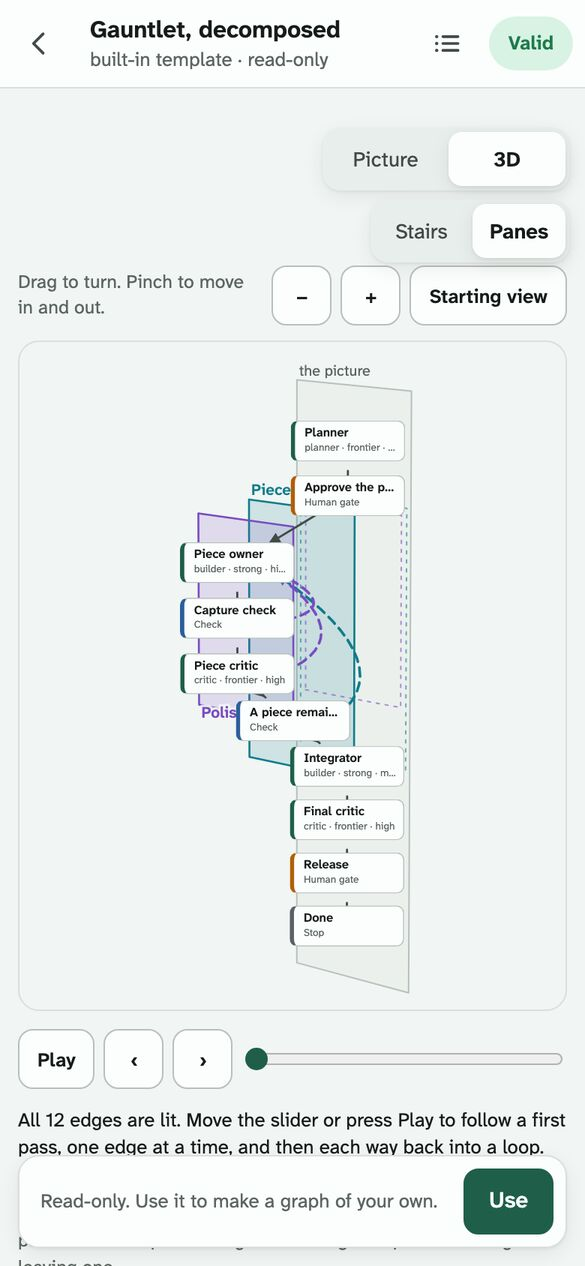
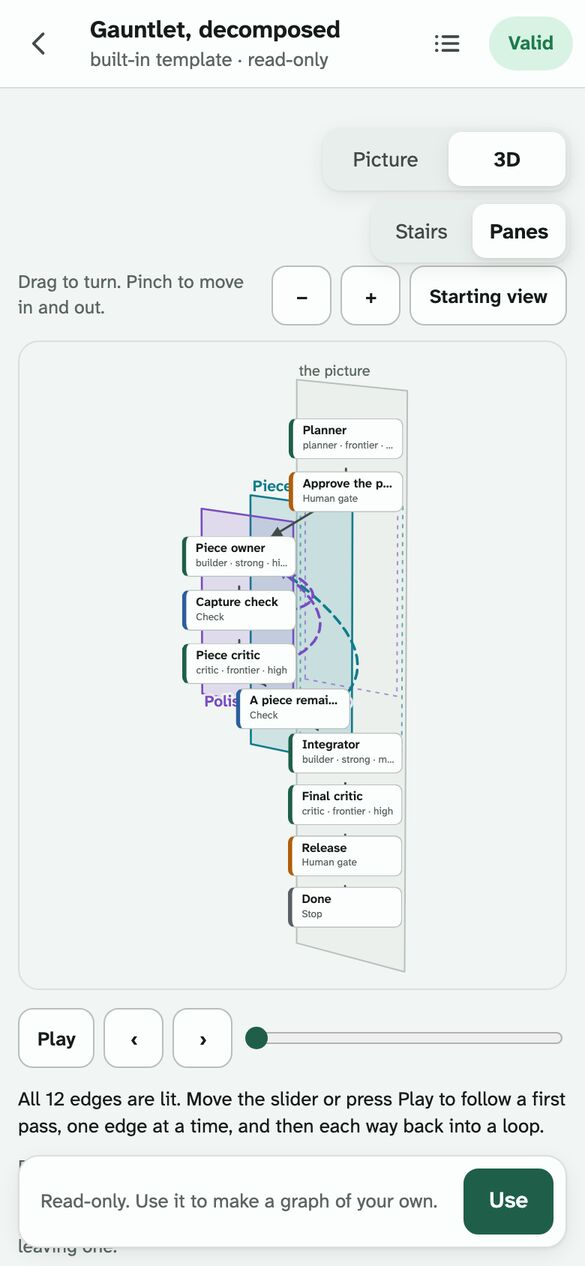
web: the taller frame after a second read: capped by what scrolls it, worked out again when the room changes, the scroll position kept, cards placed as they are drawn, a row of four clear, the last words clear of the page's foot

Changed region(s): [[0.3077, 0.3081, 0.7077, 0.7701], [0.0308, 0.8009, 0.9846, 0.9242], [0.0308, 0.9858, 0.1846, 1.0]]

diff --git a/apps/web/src/ui/canvas/stage/draw.ts b/apps/web/src/ui/canvas/stage/draw.ts
@@ -38,14 +38,19 @@ const clamp = (v: number, a: number, b: number): number => Math.max(a, Math.min(
 /** The app's own colors, by the short names the views use. A stage is Paper in every theme (docs/themes.md). */
 const TOKENS: Record<string, string> = { ink: "--ink", "ink-2": "--ink-2", "ink-3": "--ink-3", line: "--line", "line-strong": "--line-strong", card: "--surface", ground: "--bg", floor: "--surface-2", accent: "--accent", "accent-soft": "--accent-soft", "loop-0": "--loop-0", "loop-1": "--loop-1", "loop-2": "--loop-2", "loop-3": "--loop-3", "k-agent": "--kind-agent", "k-check": "--kind-check", "k-gate": "--kind-human-gate", "k-stop": "--kind-stop", ok: "--ok", bad: "--warning", brake: "--error" };
 
-/** How tall a frame may be made, of the window's height: a drag on the frame turns the view, so the page is scrolled
- *  from outside it, and past this less than a row of controls is left on a phone's screen to scroll it from. */
+/** How tall a frame may be made, of the height of what scrolls it (the stage over the canvas, which a panel or a
+ *  sheet can make short): a drag on the frame turns the view, so the page is scrolled from outside the frame, and a
+ *  fifth of that height is always outside it to scroll from. */
 export const TALLEST = 0.8;
+/** The smallest a scene is made, for its cards to be clear of each other, in a frame that has room for it larger:
+ *  under this the frame is made taller instead. */
+const SMALLEST = 0.85;
 
 /**
- * `roomy`: the frame is made as tall as the scene needs for no two of its cards to lie over each other, up to
- * `TALLEST` of the window, and the page scrolls. The height is asked of the frame's parent, whose row it is, as
- * `--s3-tall`.
+ * `roomy`: where the scene's cards would lie over each other in the room the frame has, the scene is made a little
+ * smaller if that clears them, and otherwise the frame is made as tall as they need, up to `TALLEST` of what scrolls
+ * it, and the page scrolls. The height is asked of the frame's parent, whose row it is, as `--s3-tall`; what
+ * scrolls is that parent's parent.
  */
 export function makeStage(frame: HTMLElement, canvas: HTMLCanvasElement, cards: HTMLElement, start: Look, roomy = false): Stage {
   const g = canvas.getContext("2d")!;
@@ -60,8 +65,13 @@ export function makeStage(frame: HTMLElement, canvas: HTMLCanvasElement, cards: 
   let ratio = 0;
   let asked = 0;
   let moved = false;
-  // What the frame's height was last worked out for: its width, and where the cards are.
+  // What the frame's height was last worked out for (its width, the room it is scrolled in, where the cards are),
+  // the largest the scene is drawn for that, a working out put off to the next frame, and whether this is the
+  // observer's own call: a size changed there is reported as a loop.
   let tallFor = "";
+  let most = Infinity;
+  let later = 0;
+  let observing = false;
   // What travels between cards is seen over them: an element, as they are, where the canvas is under them all.
   const token = frame.appendChild(document.createElement("i"));
   token.className = "s3-token";
@@ -124,44 +134,71 @@ export function makeStage(frame: HTMLElement, canvas: HTMLCanvasElement, cards: 
       }
       return lo;
     };
-    fitted = largest(w, h);
     const host = frame.parentElement;
-    const placed = prims.flatMap((p) => (p.t === "card" && cardOf(p.id) ? [[p, cardOf(p.id)!, turned(p.at)] as const] : []));
-    const now = `${w}|${placed.map(([p, , t]) => `${p.id}:${t.map(Math.round).join(",")}`).join("|")}`;
-    if (roomy && host && now !== tallFor) {
-      tallFor = now;
-      // At a size, whether no two cards lie over each other: two pixels clear, so that their edges are not one line.
-      const clear = (f: number): boolean => {
-        const boxes = placed.map(([p, el, t]) => boxOf(p, el, t[0] * near(t[2], f), -t[1] * near(t[2], f), near(t[2], f)));
-        return boxes.every((a, i) => boxes.every((b, j) => j <= i || a[0] >= b[0] + b[2] + 2 || b[0] >= a[0] + a[2] + 2 || a[1] >= b[1] + b[3] + 2 || b[1] >= a[1] + a[3] + 2));
-      };
-      // The height the frame has when it is asked for nothing.
-      const measure = (): void => {
-        h = Math.round(canvas.getBoundingClientRect().height);
-        canvas.height = h * ratio;
-        fitted = largest(w, h);
-      };
-      host.style.removeProperty("--s3-tall");
-      measure();
-      if (h && !clear(fitted)) {
-        // The smallest size at which they are clear, of those the frame's width has room for; if none is, the largest.
-        const widest = largest(w, 1e6);
-        let f = widest;
-        for (let n = 1; n <= 24; n += 1) {
-          const at = fitted + ((widest - fitted) * n) / 24;
-          if (clear(at)) {
-            f = at;
-            break;
+    const scroller = host?.parentElement;
+    if (roomy && host && scroller) {
+      const placed = prims.flatMap((p) => (p.t === "card" && cardOf(p.id) ? [[p, cardOf(p.id)!, turned(p.at)] as const] : []));
+      const now = `${w}|${scroller.clientHeight}|${placed.map(([p, , t]) => `${p.id}:${t.map(Math.round).join(",")}`).join("|")}`;
+      // Put off when this is the observer's call: the working out changes the size the observer watches.
+      if (now !== tallFor && observing) later ||= requestAnimationFrame(() => ((later = 0), fit(), draw()));
+      else if (now !== tallFor) {
+        tallFor = now;
+        most = Infinity;
+        // At a size, whether no two cards lie over each other, placed as they are drawn: two pixels clear, so that
+        // their edges are not one line.
+        const clear = (f: number): boolean => {
+          const [x0, x1, y0, y1] = box(f);
+          const [sx, sy] = [(x0 + x1) / 2 / f, -(y0 + y1) / 2 / f];
+          const boxes = placed.map(([p, el, t]) => boxOf(p, el, (t[0] - sx) * near(t[2], f), -(t[1] - sy) * near(t[2], f), near(t[2], f)));
+          return boxes.every((a, i) => boxes.every((b, j) => j <= i || a[0] >= b[0] + b[2] + 2 || b[0] >= a[0] + a[2] + 2 || a[1] >= b[1] + b[3] + 2 || b[1] >= a[1] + a[3] + 2));
+        };
+        // Between a size that is not clear and one that is, the one nearest the first that is clear.
+        const edge = (not: number, yes: number): number => {
+          for (let n = 0; n < 10; n += 1) clear((not + yes) / 2) ? (yes = (not + yes) / 2) : (not = (not + yes) / 2);
+          return yes;
+        };
+        const measure = (): number => {
+          h = Math.round(canvas.getBoundingClientRect().height);
+          canvas.height = h * ratio;
+          return largest(w, h);
+        };
+        // The height the frame has when it is asked for nothing. Taking the request away can make the page shorter
+        // than it is scrolled: where it was scrolled to is kept, and given back.
+        const scrolled = scroller.scrollTop;
+        host.style.removeProperty("--s3-tall");
+        const fits = measure();
+        if (h && !clear(fits)) {
+          // A little smaller in the same frame, if that clears them.
+          let found = 0;
+          for (let n = 1; n <= 16 && !found && fits > SMALLEST; n += 1) {
+            const at = fits - ((fits - SMALLEST) * n) / 16;
+            if (clear(at)) found = edge(at, fits - ((fits - SMALLEST) * (n - 1)) / 16);
+          }
+          if (found) most = found;
+          else {
+            // Or larger, in a taller frame: the smallest size at which they are clear, of those the frame's width
+            // has room for; if none is, the largest. A frame that would pass the cap is at the cap.
+            const widest = largest(w, 1e6);
+            let f = widest;
+            for (let n = 1; n <= 24; n += 1) {
+              const at = fits + ((widest - fits) * n) / 24;
+              if (clear(at)) {
+                f = edge(fits + ((widest - fits) * (n - 1)) / 24, at);
+                break;
+              }
+            }
+            const [, , y0, y1] = box(f);
+            const tall = Math.min(Math.ceil(y1 - y0) + 18, Math.round(scroller.clientHeight * TALLEST));
+            if (tall > h) {
+              host.style.setProperty("--s3-tall", `${tall}px`);
+              measure();
+            }
           }
         }
-        const [, , y0, y1] = box(f);
-        const tall = Math.min(Math.ceil(y1 - y0) + 18, Math.round(innerHeight * TALLEST));
-        if (tall > h) {
-          host.style.setProperty("--s3-tall", `${tall}px`);
-          measure();
-        }
+        scroller.scrollTop = scrolled;
       }
     }
+    fitted = Math.min(largest(w, h), most);
     const [x0, x1, y0, y1] = box(fitted);
     shift = [(x0 + x1) / 2 / fitted, -(y0 + y1) / 2 / fitted];
     Object.assign(view, was);
@@ -375,15 +412,24 @@ export function makeStage(frame: HTMLElement, canvas: HTMLCanvasElement, cards: 
   });
   if (typeof ResizeObserver === "function") {
     // Drawn at once: a canvas given a new size is blank, and the cards would stand over nothing for a frame.
-    const sized = new ResizeObserver(() => (size(), draw()));
+    const sized = new ResizeObserver(() => {
+      observing = true;
+      size();
+      // The room the frame is scrolled in may have changed and the frame not (a panel opened beside a frame that
+      // is held to a height): the height is worked out again.
+      if (roomy) fit();
+      observing = false;
+      draw();
+    });
     sized.observe(canvas);
+    if (roomy && frame.parentElement?.parentElement) sized.observe(frame.parentElement.parentElement);
     off.push(() => sized.disconnect());
   }
   const scheme = matchMedia("(prefers-color-scheme: dark)");
   scheme.addEventListener("change", ask);
   const themed = new MutationObserver(ask);
   themed.observe(document.documentElement, { attributes: true, attributeFilter: ["data-theme"] });
-  off.push(() => scheme.removeEventListener("change", ask), () => themed.disconnect(), () => cancelAnimationFrame(asked), () => token.remove());
+  off.push(() => scheme.removeEventListener("change", ask), () => themed.disconnect(), () => cancelAnimationFrame(asked), () => cancelAnimationFrame(later), () => token.remove());
 
   const stage: Stage = {
     lit: null,

diff --git a/apps/web/e2e/graph-stage.spec.ts b/apps/web/e2e/graph-stage.spec.ts
@@ -618,7 +618,7 @@ const overlaps = (page: Page) =>
     return boxes.flatMap(([a, p], i) => boxes.slice(i + 1).flatMap(([b, q]) => (p.left < q.right && q.left < p.right && p.top < q.bottom && q.top < p.bottom ? [`${a} over ${b}`] : [])));
   });
 
-test("on a phone no card of any built-in template lies over another in Panes at rest: the frame is as tall as its cards need, to four fifths of the window, and the page scrolls", async ({ page }) => {
+test("on a phone no card of any built-in template lies over another in Panes at rest: the frame is as tall as its cards need, and the page scrolls to the last of the words", async ({ page }) => {
   test.setTimeout(180_000);
   await page.setViewportSize({ width: 390, height: 844 });
   await page.addInitScript(() => sessionStorage.getItem("groophSpace") ?? sessionStorage.setItem("groophSpace", "panes"));
@@ -638,8 +638,9 @@ test("on a phone no card of any built-in template lies over another in Panes at 
     const hits = await overlaps(page);
     if (hits.length) found[id] = hits;
     const frame = (await page.locator(".s3-frame").boundingBox())!;
-    // Never taller than four fifths of the window: the page is scrolled from outside the frame.
-    expect(frame.height, id).toBeLessThanOrEqual(Math.round(844 * 0.8) + 1);
+    // Never taller than four fifths of what scrolls it: the page is scrolled from outside the frame.
+    const room = await page.locator(".graph-space").evaluate((el) => el.clientHeight);
+    expect(frame.height, id).toBeLessThanOrEqual(Math.round(room * 0.8) + 1);
     const asked = await page.locator(".s3").evaluate((el) => (el as HTMLElement).style.getPropertyValue("--s3-tall"));
     if (asked) taller.push(id);
     // Every card is whole in its frame, and what is under the frame can be scrolled to.
@@ -649,8 +650,10 @@ test("on a phone no card of any built-in template lies over another in Panes at 
       expect(box.top, id).toBeGreaterThanOrEqual(frame.y - 1);
       expect(box.bottom, id).toBeLessThanOrEqual(frame.y + frame.height + 1);
     }
-    await page.locator(".s3-note").scrollIntoViewIfNeeded();
-    await expect(page.locator(".s3-note")).toBeInViewport();
+    // Scrolled to its end, the last of the words is clear of the bar at the page's foot, not under it.
+    await page.locator(".graph-space").evaluate((el) => el.scrollTo(0, el.scrollHeight));
+    const [last, bar] = [(await page.locator(".s3-note").boundingBox())!, (await page.locator(".viewer-bar").boundingBox())!];
+    expect(last.y + last.height, id).toBeLessThanOrEqual(bar.y);
   }
   // Said by name, so that a template that still has cards over each other at the cap is known, not hidden.
   expect(found).toEqual({});
@@ -697,4 +700,94 @@ test("a frame made taller for its cards does not break the move: the picture bec
   expect(made.map((m) => m.ended)).toEqual([true, true]);
   for (const m of made) expect(m.pairs).toBeGreaterThan(0);
   expect([await namedStill(page), (await slowest(page)) < 2500]).toEqual([0, true]);
+});
+
+test("the frame is never taller than four fifths of what scrolls it: with the details sheet open on a phone it stops there, the page can still be scrolled from outside it, and the templates whose cards still touch are these", async ({ page }) => {
+  test.setTimeout(180_000);
+  await page.setViewportSize({ width: 390, height: 844 });
+  await page.addInitScript(() => sessionStorage.getItem("groophSpace") ?? sessionStorage.setItem("groophSpace", "panes"));
+  const ids = readdirSync(join(repoRoot, "patterns")).filter((f) => f.endsWith(".grooph.json")).map((f) => f.replace(".grooph.json", ""));
+  const touching: string[] = [];
+  const capped: string[] = [];
+  for (const id of ids) {
+    await page.goto("about:blank");
+    await page.goto(`./#/templates/built-in/${id}`);
+    await canvasIsQuiet(page);
+    // The page opens with its details sheet over the lower half, and here it is left open.
+    await expect(page.getByRole("button", { name: "Close panel" })).toBeVisible();
+    await view(page, "3D").click();
+    await expect(page.locator(".s3-frame")).toBeVisible();
+    await viewIsStill(page);
+    const [frame, room] = [(await page.locator(".s3-frame").boundingBox())!.height, await page.locator(".graph-space").evaluate((el) => el.clientHeight)];
+    const cap = Math.round(room * 0.8);
+    expect(room, id).toBeLessThan(500);
+    expect(frame, id).toBeLessThanOrEqual(cap + 1);
+    if (frame >= cap - 1) capped.push(id);
+    if ((await overlaps(page)).length) touching.push(id);
+  }
+  // A frame at the cap is where a graph that needs more starts; none is left at the floor with its cards in a heap.
+  expect(capped).toEqual(expect.arrayContaining(touching));
+  // Said by name: half a phone's screen is not room for these six. Closing the sheet clears every one (the test above).
+  expect(touching).toEqual(["debate-then-build", "gauntlet-decomposed", "ownership-not-swarm", "patrol-pulse", "specialist-critic-bank", "tournament-then-judge"]);
+});
+
+test("the frame's height is worked out again when its room changes, whichever came first; where the page was scrolled to is kept; and no error is raised on the way", async ({ page }) => {
+  const errors: string[] = [];
+  page.on("pageerror", (error) => errors.push(error.message));
+  page.on("console", (message) => void (message.type() === "error" && errors.push(message.text())));
+  await page.setViewportSize({ width: 390, height: 844 });
+  await page.addInitScript(() => sessionStorage.getItem("groophSpace") ?? sessionStorage.setItem("groophSpace", "panes"));
+  await page.goto("./#/templates/built-in/review-gate");
+  await canvasIsQuiet(page);
+  await page.getByRole("button", { name: "Close panel" }).click();
+  await view(page, "3D").click();
+  await expect(page.locator(".s3-frame")).toBeVisible();
+  await viewIsStill(page);
+  const asked = () => page.locator(".s3").evaluate((el) => (el as HTMLElement).style.getPropertyValue("--s3-tall"));
+  const tall = async () => Math.round((await page.locator(".s3-frame").boundingBox())!.height);
+  // All the room: the review gate's four cards are clear, and nothing is asked for.
+  expect([await asked(), await overlaps(page)]).toEqual(["", []]);
+  const whole = await tall();
+  // A card's sheet takes the lower half: the frame would fall to its floor, where the cards touch. It is given
+  // what they need instead, and they are clear.
+  await page.getByRole("button", { name: "Agent Critic" }).click();
+  await expect(sheet(page)).toBeVisible();
+  await expect.poll(asked).not.toBe("");
+  await expect.poll(() => overlaps(page)).toEqual([]);
+  const half = await tall();
+  expect(half).toBeGreaterThan(180);
+  expect(half).toBeLessThan(whole);
+  // The sheet first and Panes after gives the same height as Panes first and the sheet after.
+  await view(page, "Picture").click();
+  await expect(page.locator(".s3")).toHaveCount(0);
+  await viewIsStill(page);
+  await view(page, "3D").click();
+  await expect(page.locator(".s3-frame")).toBeVisible();
+  await viewIsStill(page);
+  expect(Math.abs((await tall()) - half)).toBeLessThanOrEqual(1);
+  // And with the sheet closed the frame has all the room again, and asks for nothing.
+  await page.getByRole("button", { name: "Close panel" }).click();
+  await expect.poll(asked).toBe("");
+  await expect.poll(tall).toBe(whole);
+
+  // A tall graph, scrolled part of the way; then the window is made a little narrower, and the height is worked out
+  // again. The page is where it was scrolled to.
+  await page.goto("./#/templates/built-in/gauntlet-decomposed");
+  await canvasIsQuiet(page);
+  await page.getByRole("button", { name: "Close panel" }).click();
+  await view(page, "3D").click();
+  await expect(page.locator(".s3-frame")).toBeVisible();
+  await viewIsStill(page);
+  const before = await asked();
+  expect(before).not.toBe("");
+  const scroller = page.locator(".graph-space");
+  await scroller.evaluate((el) => el.scrollTo(0, 60));
+  expect(await scroller.evaluate((el) => el.scrollTop)).toBe(60);
+  await page.setViewportSize({ width: 376, height: 844 });
+  await expect.poll(async () => (await page.locator(".s3-frame").boundingBox())!.width).toBeLessThan(360);
+  await expect.poll(asked).not.toBe("");
+  await page.waitForTimeout(150);
+  expect(await scroller.evaluate((el) => el.scrollTop)).toBe(60);
+  expect(await overlaps(page)).toEqual([]);
+  expect(errors).toEqual([]);
 });

diff --git a/apps/web/src/ui/canvas/stage/panes.ts b/apps/web/src/ui/canvas/stage/panes.ts
@@ -13,9 +13,10 @@ import type { Id, MGroup, MLoop, V } from "./model.js";
 import { card, edgeLine, hue, lerp, type View } from "./shapes.js";
 
 const STEP = 84;
-/** How the canvas's places are scaled: across by enough that two cards side by side in a row of the canvas's own
- *  layout (236 from one to the next) are clear of each other from where the view starts, and down by less. */
-export const [ACROSS, DOWN] = [0.72, 0.4];
+/** How the canvas's places are scaled: across by enough that the cards of a row of the canvas's own layout (236 from
+ *  one to the next, as many as four) are clear of each other from where the view starts, the far ones too, which
+ *  stand closer for being far; and down by less. */
+export const [ACROSS, DOWN] = [0.8, 0.4];
 
 /** The boxes a node can be in, each with how many others are round it: a loop, a subgrooph. */
 export function boxesOf(loops: MLoop[], groups: MGroup[]): { loop?: MLoop; group?: MGroup; name: string; sub: string; ids: Id[]; depth: number }[] {
@@ -39,7 +40,7 @@ export const panes: View = (m) => {
   const at: Record<Id, V> = {};
   const boxes = boxesOf(m.loops, m.groups);
   const depth = (id: Id): number => Math.max(0, ...boxes.filter((box) => box.ids.includes(id)).map((box) => box.depth));
-  for (const n of m.nodes) at[n.id] = [n.at[0] * ACROSS + 62, -n.at[1] * DOWN, depth(n.id) * STEP];
+  for (const n of m.nodes) at[n.id] = [n.at[0] * ACROSS, -n.at[1] * DOWN, depth(n.id) * STEP];
   for (const n of m.nodes) prims.push(card(n, at[n.id]!, {}));
   const around = (ids: Id[], pad: number): [number, number, number, number] => {
     const pts = ids.map((id) => at[id]!);

diff --git a/apps/web/test/graph-stage.test.ts b/apps/web/test/graph-stage.test.ts
@@ -8,7 +8,7 @@ import { columnsForViewport } from "../src/doc/layout.js";
 
 import { firstPass } from "../src/ui/canvas/graph-views.js";
 import { columnsAt, modelOf as modelAt, stepsOf } from "../src/ui/canvas/stage/model.js";
-import { ACROSS, boxesOf, DOWN, panes } from "../src/ui/canvas/stage/panes.js";
+import { boxesOf, panes } from "../src/ui/canvas/stage/panes.js";
 
 /**
  * A graph's other views in three dimensions (handoff 0096): what every view draws from, held to the documents. The
@@ -246,7 +246,7 @@ describe("panes", () => {
       expect(prims.filter((p) => p.t === "line" && p.arrow).map((p) => p.key).sort(), path).toEqual(doc.edges.map((e) => `edge:${e.id}`).sort());
       // Left to right and top to bottom as on the canvas: its own x and y for this screen, scaled.
       const canvas = places(doc, columns);
-      for (const n of doc.nodes) expect([node(n.id)[0], node(n.id)[1]], `${path} ${n.id}`).toEqual([canvas[n.id]!.x * ACROSS + 62, -canvas[n.id]!.y * DOWN]);
+      for (const n of doc.nodes) expect([node(n.id)[0], node(n.id)[1]], `${path} ${n.id}`).toEqual([canvas[n.id]!.x * 0.8, -canvas[n.id]!.y * 0.4]);
       // A way back is dashed and in its loop's color; an edge that goes on is not.
       for (const e of model.edges) {
         const line = prims.find((p) => p.key === `edge:${e.id}`)!;

diff --git a/apps/web/vite.config.ts b/apps/web/vite.config.ts
@@ -138,7 +138,8 @@ function routes(): Plugin {
         // piece and not one a view: a name is on every address's first load. Written apart from the lists above too.
         const graphStage = chunks.find((c) => c.facadeModuleId?.endsWith("/src/ui/canvas/graph-stage.tsx"));
         if (!graphStage) throw new Error("grooph-routes: no chunk of its own for a graph's other views in three dimensions (src/ui/canvas/graph-stage.tsx). The build no longer splits where vite.config.ts expects.");
-        const stage = [...closure(graphStage)].filter((f) => !inEntry.has(f) && !inApp.has(f) && !closure(screens).has(f));
+        // Over what a canvas has by then: the switch's own piece, which asks for this one, is not weighed here again.
+        const stage = [...closure(graphStage)].filter((f) => !inEntry.has(f) && !inApp.has(f) && !closure(screens).has(f) && !closure(graphViews).has(f));
         found.later = [...new Set([...found.later, ...stage, ...found.templates, ...found.front])];
         // Both are on no address's first load, and each has a line of its own in scripts/perf-budget.json: the
         // stage, which choosing one of those views fetches, and the switch with the graph's reading, which every

diff --git a/apps/web/src/ui/canvas/graph-stage.css b/apps/web/src/ui/canvas/graph-stage.css
@@ -6,7 +6,9 @@
   /* The frame has the room that is left, and more where its cards need it (`stage/draw.ts`): the page then scrolls. */
   grid-template-rows: auto minmax(var(--s3-tall, 180px), 1fr) auto auto auto;
   gap: 10px;
-  height: 100%;
+  /* As tall as the room it has, and taller when its rows need it: then it is the page that grows, and the room the
+     page keeps at its foot (for a viewer's bar) comes after the last of the words, not over them. */
+  min-height: 100%;
   padding: 0 12px;
   font: 13px/1.4 var(--font);
   color: var(--ink);

diff --git a/docs/exports.md b/docs/exports.md
@@ -60,7 +60,7 @@ A tap on a card does what a tap on its node does on the canvas. The canvas keeps
 
 **Other kinds of 3D.** The stairs are one way of seeing a graph in three dimensions. While a view in three dimensions is up, a row under the switch says which kind it is and offers the others the owner picked from a page of sketches (handoff 0096; the studio is [`handoffs/briefs/studio-3d.html`](../handoffs/briefs/studio-3d.html)); the switch itself stays Picture and 3D, and 3D opens the kind last drawn in the visit, the stairs the first time. A kind that cannot be fetched leaves what is up, with a note in a place of its own over it that says only what is so (not that the stairs show the graph when they could not be fetched either); from the picture, the next press of 3D on that page asks for a kind of the other piece. What the visit remembers is changed only by a kind that is drawn, so a reload tries again what failed. From one kind to another each card is seen to go to its place in the next, as from the picture. The first of them:
 
-- **Panes.** The picture as it is, with each loop and each box lifted toward the reader on a pane of its own. A box is what the picture draws as one, a subgrooph; a group that was not placed from a template is not drawn on the picture and has no pane, though a node's card says it is in it. Every node is where the canvas has it (the document's own layout where it has one; where it has none the canvas's, wrapped where the canvas wrapped its rows when it last laid the document out), and as many panes forward as there are loops and subgroophs round it, one inside another, so a loop inside a loop is two panes out. Two loops that share a node without one being inside the other are two panes at one depth. Face on it is the picture; turned, it shows what is inside what, and an edge that changes depth is entering or leaving a loop or a box. Where a graph's cards would lie over each other in the room that is left (a tall graph on a phone), the frame is made as tall as they need to be clear of each other, up to four fifths of the window's height, and the page scrolls: a drag on the frame turns the view, so the page is scrolled from outside it, and a taller frame would leave too little on a phone's screen to scroll it from. The height is set before the cards are first drawn, so the picture's nodes are carried to where their cards stay.
+- **Panes.** The picture as it is, with each loop and each box lifted toward the reader on a pane of its own. A box is what the picture draws as one, a subgrooph; a group that was not placed from a template is not drawn on the picture and has no pane, though a node's card says it is in it. Every node is where the canvas has it (the document's own layout where it has one; where it has none the canvas's, wrapped where the canvas wrapped its rows when it last laid the document out), and as many panes forward as there are loops and subgroophs round it, one inside another, so a loop inside a loop is two panes out. Two loops that share a node without one being inside the other are two panes at one depth. Face on it is the picture; turned, it shows what is inside what, and an edge that changes depth is entering or leaving a loop or a box. Where a graph's cards would lie over each other in the room that is left (a tall graph on a phone), the scene is drawn a little smaller if that clears them, and otherwise the frame is made as tall as they need to be clear of each other, and the page scrolls. The frame is never taller than four fifths of the stage it is scrolled in, which a details sheet or a panel can make short: a drag on the frame turns the view, so the page is scrolled from outside it, and a fifth of that height is always outside it to scroll from. A graph that needs more starts at that height, with cards still touching; at a phone's size with the sheet closed none of the built-in templates does, and with the sheet over half the screen six do. The height is worked out again when the room changes (a sheet opened or closed, the window turned), and where the page was scrolled to is kept. The height is set before the cards are first drawn, so the picture's nodes are carried to where their cards stay.
 
 These kinds are drawn on a 2D canvas by one small stage, with no library, and each node's card is a real element placed over the drawing, so a card can be tapped, focused and named as on the stairs. Their slider walks the edges of a first pass and then each way back into a loop, or a run's own notes; a move is along the edge whose condition is what the run's note before it reported, or one with no condition, and where neither is there no edge is shown as taken; a round is said by its loop's name, and a dispatch at a node in no loop is in none. What a step moves along is seen to travel over the cards when the slider goes on by one, and is then the lit card; a reader who asked for less motion sees the lit card at once. A group's nesting is read as core reads it (a node listed by a group and by one inside it is the inner one's). A note about the run as a whole, or about an edge, is said in the note's own words and is not shown as a move. They are one piece of the app (`src/ui/canvas/graph-stage.tsx`), fetched when one of them is first chosen and named in the page so the service worker holds it; like the stairs they are Paper in every picture theme. The piece is on no address's first load and has a line of its own in `scripts/perf-budget.json`, 17 KB for all of the kinds together; the switch and the graph's reading, which every address that draws on the canvas fetches once the canvas is drawn, has one too, at 6.
 
